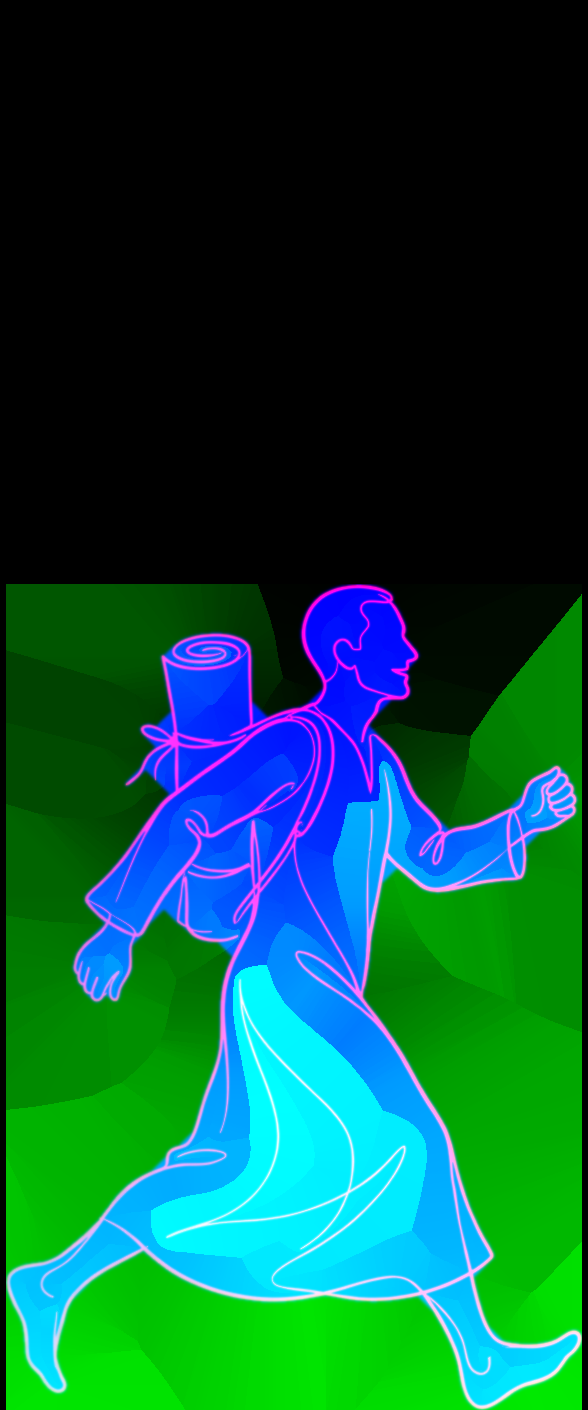
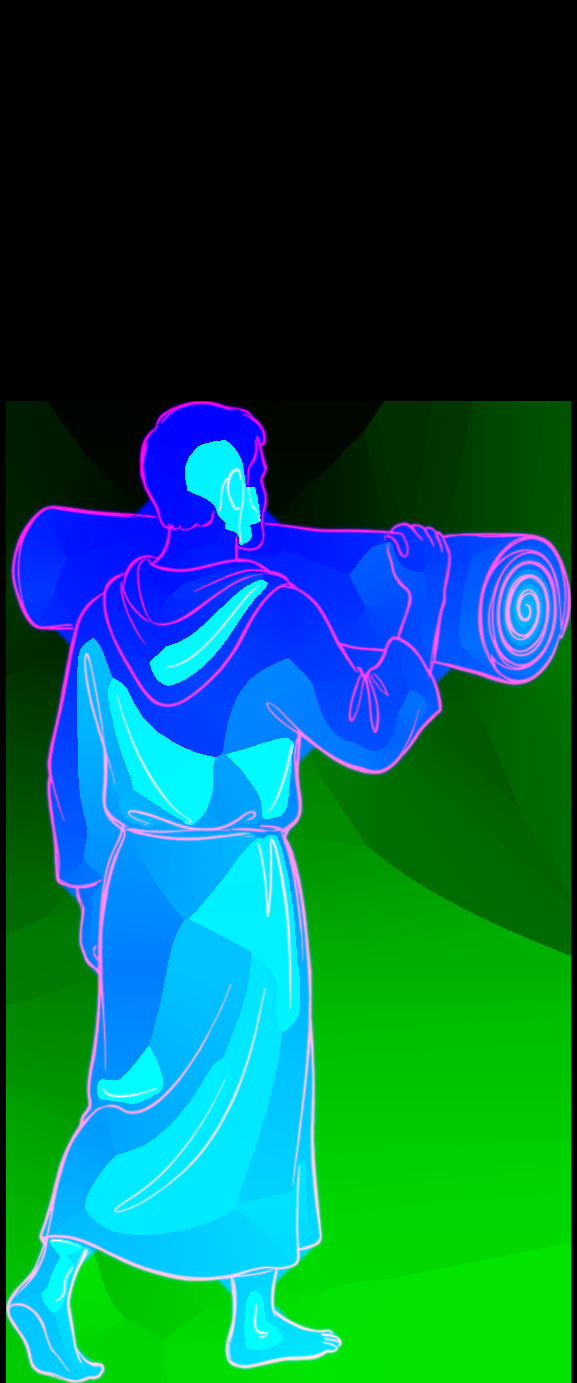
Recap walk L18: pillar instead of the lens; leaders see the mat, then the whole man walks out
Claude-Session: https://claude.ai/code/session_01PUXW98g7GeRrNVaktcGhRj

diff --git a/tools/recap-video/places/l18.js b/tools/recap-video/places/l18.js
@@ -1,19 +1,39 @@
-// Lesson 18 (short stop): a man walks after 38 years, and all the leaders can see is the mat.
-// One detail: the mat, swelled in a lens while the walking man fades. He is still walking when the lens leaves.
+// Lesson 18 (short stop): a man walks after 38 years, and all the leaders can see is the mat he's carrying.
+// One detail: at Bethesda's colonnade only the rolled mat shows past the pillar, with two men from behind looking at it. Then he
+// walks out from behind it: the whole man, walking. No lens, no frame. The men never move.
 export default async function (P) {
   await P.loadArt();
-  const D = 6, Z = P.Z - D, cam = P.camera;
-  const key = P.ev('key', 1, 1), off = P.ev('lens leaves', 2, 3), L = P.beats(1);
-  const man = P.walker('man', 0, Z, false, 3.6, { fadeNear: false });
-  const lens = P.art('lens', 0, Z + 0.15, 3.2, { drawn: true, turn: false, gain: 1.4, sil: 0.0, fadeNear: false });
-  const mat = P.art('mat', 0, Z + 0.1, 0.52, { drawn: true, turn: false, gain: 1.5, sil: 0.9, fadeNear: false });
-  const manX = t => P.X - 0.9 + (t - P.T.arrive) * 0.3;
-  P.keep(mat, { h: 2.4, x: P.X, z: Z });
+  const cam = P.camera, L = P.beats(1), dirX = (P.pathX(P.Z - 12) - P.X) / 12;
+  const at = (d, px) => P.X + dirX * d + (px - 540) * d / 1283;              // world x that lands on screen x px, seen from where you stop
+  const go = P.ev('he sets off', 1, 3); P.ev('key', 2, 1);                   // key: he is out from behind the pillar
+  const SP = 0.42, DM = 6, DP = 5, ZP = P.Z - DP, MX = at(DM, 401);
+
+  // the pillar: a stone shaft on a plain base, rising into the dark below the words. Opaque: it has to hide him.
+  const CW = 1.42, SW = 1.1, HT = 9, PX = 180;
+  const pillar = P.thing(at(DP, 330), ZP, CW, HT, PX, c => { const cw = c.canvas.width, ch = c.canvas.height, d = cam.position.z - ZP, m = (CW - SW) / 2 * PX, b = 0.42 * PX;
+    const yAt = sy => ch - (2.6 + (875 - sy) * d / 1283) * PX, g = c.createLinearGradient(0, yAt(570), 0, yAt(635));
+    g.addColorStop(0, 'rgba(0,0,0,0)'); g.addColorStop(1, 'rgba(0,0,0,1)');
+    c.fillStyle = '#0c0a08'; c.fillRect(m, 0, cw - 2 * m, ch - b * 0.42); c.fillRect(0, ch - b * 0.42, cw, b * 0.42); c.beginPath(); c.moveTo(m * 0.45, ch - b * 0.8); c.lineTo(cw - m * 0.45, ch - b * 0.8); c.lineTo(cw, ch - b * 0.42); c.lineTo(0, ch - b * 0.42); c.fill();
+    c.strokeStyle = '#e2b888';
+    const edge = (x, w, a, top, bot) => { c.lineWidth = w; c.globalAlpha = a; c.beginPath(); c.moveTo(x, top); for (let k = 1; k <= 12; k++) c.lineTo(x + (hash(k + x) - 0.5) * 3, top + (bot - top) * k / 12); c.stroke(); };
+    edge(m, 4.2, 1, 0, ch - b * 0.8); edge(cw - m, 4.2, 1, 0, ch - b * 0.8);
+    [0.2, 0.36, 0.53, 0.72].forEach((f, i) => edge(m + (cw - 2 * m) * f, 2, 0.5, ch * (0.1 + 0.07 * hash(3 + i)), ch - b * 1.1));
+    c.globalAlpha = 0.85; c.lineWidth = 2.6; c.beginPath(); c.moveTo(m * 0.45, ch - b * 0.8); c.quadraticCurveTo(cw / 2, ch - b * 0.62, cw - m * 0.45, ch - b * 0.8);   // the moulding
+    c.moveTo(m * 0.45, ch - b * 0.8); c.quadraticCurveTo(m * 0.1, ch - b * 0.6, 3, ch - b * 0.42); c.lineTo(cw - 3, ch - b * 0.42); c.quadraticCurveTo(cw - m * 0.1, ch - b * 0.6, cw - m * 0.45, ch - b * 0.8);
+    c.moveTo(3, ch - b * 0.42); c.lineTo(3, ch - 3); c.lineTo(cw - 3, ch - 3); c.lineTo(cw - 3, ch - b * 0.42); c.stroke();
+    c.globalAlpha = 1; c.globalCompositeOperation = 'destination-in'; c.fillStyle = g; c.fillRect(0, 0, cw, ch); c.globalCompositeOperation = 'source-over'; }, { turn: false, live: true, far: 60, near: 40 });
+
+  const man = P.walker('man', MX, P.Z - DM, false, 3.55, { fadeNear: false, turn: false, gain: 1.5, sil: 0.95 });
+  const e1 = P.walker('elder1', at(6.5, 30), P.Z - 6.5, false, 3.0, { fadeNear: false, turn: false, gain: 1.2, sil: 0.92 });
+  const e2 = P.walker('elder2', at(4.6, 115), P.Z - 4.6, false, 3.0, { fadeNear: false, turn: false, gain: 1.25, sil: 1 });
+  const manY = man.mesh.position.y;
+  P.keep(man, { h: 4 });
   return { update(t) {
-    const x = manX(t), inK = seg(t, key, key + L * 2), outK = seg(t, off, off + L * 2), k = inK * (1 - outK);
-    man.mesh.position.x = x; P.gait(man, t < P.T.end, t); const d = cam.position.z - Z; man.u.uA.value = (1 - 0.86 * k) * seg(t, P.T.start, P.T.arrive) * (1 - seg(t, P.T.leave, P.T.leave + L)) * clamp((d - 1.8) / 1.6);
-    const lx = x - 0.5, ly = 3.54;   // the lens stays on the mat as he walks
-    lens.mesh.position.set(lx + 0.25 + (1 - k) * 2.6, ly - 1.09 - (1 - k) * 3.2, Z + 0.15); lens.u.uA.value = k;
-    mat.mesh.position.set(lx, ly + 0.02, Z + 0.1); mat.u.uA.value = k * k; const s = 1 + 0.06 * P.pulse(t) * k; mat.mesh.scale.set(s, s, 1);
+    const inK = seg(t, P.T.start, P.T.arrive), out = 1 - seg(t, P.T.leave, P.T.leave + L * 0.8), moving = t >= go;
+    pillar.mesh.material.opacity = clamp(inK * 2) * out;      // solid before he shows, so he never shows through it
+    e1.u.uA.value = e2.u.uA.value = inK * out;
+    man.mesh.position.x = MX + Math.max(0, t - go) * SP;
+    P.gait(man, moving, t); if (!moving) man.mesh.position.y = manY;
+    man.u.uA.value = clamp((inK - 0.5) * 2) * out;
   } };
 }
